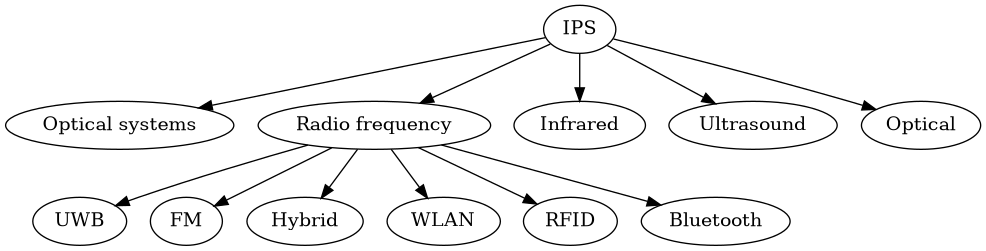
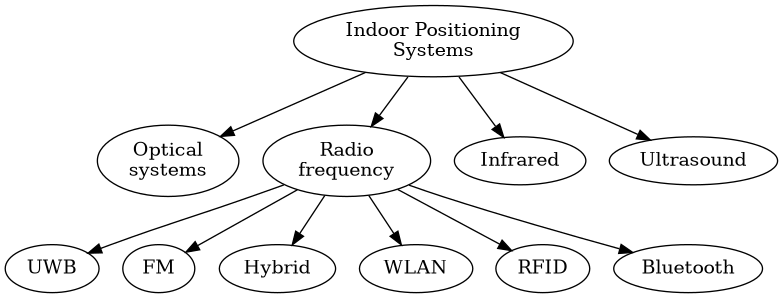
graphs

diff --git a/src/Data_analysis/Tree_graph_creator.py b/src/Data_analysis/Tree_graph_creator.py
@@ -3,29 +3,56 @@ from anytree.exporter import DotExporter
 import matplotlib.pyplot as plt
 from sklearn import tree
 
-IPS = Node("IPS") #root
-optical_systems = Node("Optical systems", parent=IPS)
-RF = Node("Radio frequency", parent=IPS)
-IR = Node("Infrared", parent=IPS)
-Ultrasound = Node("Ultrasound", parent=IPS)
-Optical = Node("Optical", parent=IPS)
-UWB = Node("UWB", parent=RF)
-FM = Node("FM", parent=RF)
-Hybrid = Node("Hybrid", parent=RF)
-wlan = Node("WLAN", parent=RF)
-RFID = Node("RFID", parent=RF)
-Bluetooth = Node("Bluetooth", parent=RF)
+Position_est_alg = Node("Postion estimating\n algorithms") #root
+range_based = Node("Range-based\n algorithms", Position_est_alg) #root
+range_free = Node("Range-free\n algorithms", Position_est_alg) #root
+proximity_based = Node("Proximity-based\n algorithms", range_free) #root
+toa_ = Node("ToA", range_based)
+tdoa_ = Node("TDoA", range_based)
+aoa_ = Node("AoA", range_based)
+rssi = Node("RSSI", range_based)
 
-# m_1 = Node("M_1", parent=gm_2)
+DotExporter(Position_est_alg).to_picture("src/Data_analysis/plot_data/Position_est_alg.png")
 
-for pre, fill, node in RenderTree(IPS):
-    print("%s%s" % (pre, node.name))
 
-DotExporter(IPS).to_picture("src/Data_analysis/plot_data/IPS.png")
+# Indoor_Positioning = Node("Indoor Positioning\n algorithms") #root
+# fingerprinting = Node("Fingerprinting", Indoor_Positioning)
+# proximity = Node("Proximity", Indoor_Positioning)
+# trilat = Node("Trilateration", Indoor_Positioning)
+# triang = Node("Triangulation", Indoor_Positioning)
+# toa = Node("ToA", trilat)
+# tdoa = Node("TDoA", trilat)
+# aoa = Node("AoA", triang)
+# rss = Node("RSSI", fingerprinting)
+# rss = Node("RSSI", proximity)
 
-Positioning = Node("Positioning") #root
-self_pos = Node("Self Positioning", parent=Positioning)
-aid_pos = Node("Aided Positioning", parent=Positioning)
-outdoor_pos = Node("Outdoor Positioning", parent=aid_pos)
-outdoor_pos = Node("Indoor Positioning", parent=aid_pos)
-DotExporter(Positioning).to_picture("src/Data_analysis/plot_data/Positioning.png")
+# for pre, fill, node in RenderTree(Indoor_Positioning):
+#     print("%s%s" % (pre, node.name))
+# DotExporter(Indoor_Positioning).to_picture("src/Data_analysis/plot_data/Indoor_Positioning.png")
+
+
+# IPS = Node("Indoor Positioning\nSystems") #root
+# optical_systems = Node("Optical\nsystems", parent=IPS)
+# RF = Node("Radio\nfrequency", parent=IPS)
+# IR = Node("Infrared", parent=IPS)
+# Ultrasound = Node("Ultrasound", parent=IPS)
+# UWB = Node("UWB", parent=RF)
+# FM = Node("FM", parent=RF)
+# Hybrid = Node("Hybrid", parent=RF)
+# wlan = Node("WLAN", parent=RF)
+# RFID = Node("RFID", parent=RF)
+# Bluetooth = Node("Bluetooth", parent=RF)
+
+# # m_1 = Node("M_1", parent=gm_2)
+
+# for pre, fill, node in RenderTree(IPS):
+#     print("%s%s" % (pre, node.name))
+
+# DotExporter(IPS).to_picture("src/Data_analysis/plot_data/IPS.png")
+
+# Positioning = Node("Positioning") #root
+# self_pos = Node("Self Positioning", parent=Positioning)
+# aid_pos = Node("Aided Positioning", parent=Positioning)
+# outdoor_pos = Node("Outdoor Positioning", parent=aid_pos)
+# outdoor_pos = Node("Indoor Positioning", parent=aid_pos)
+# DotExporter(Positioning).to_picture("src/Data_analysis/plot_data/Positioning.png")
